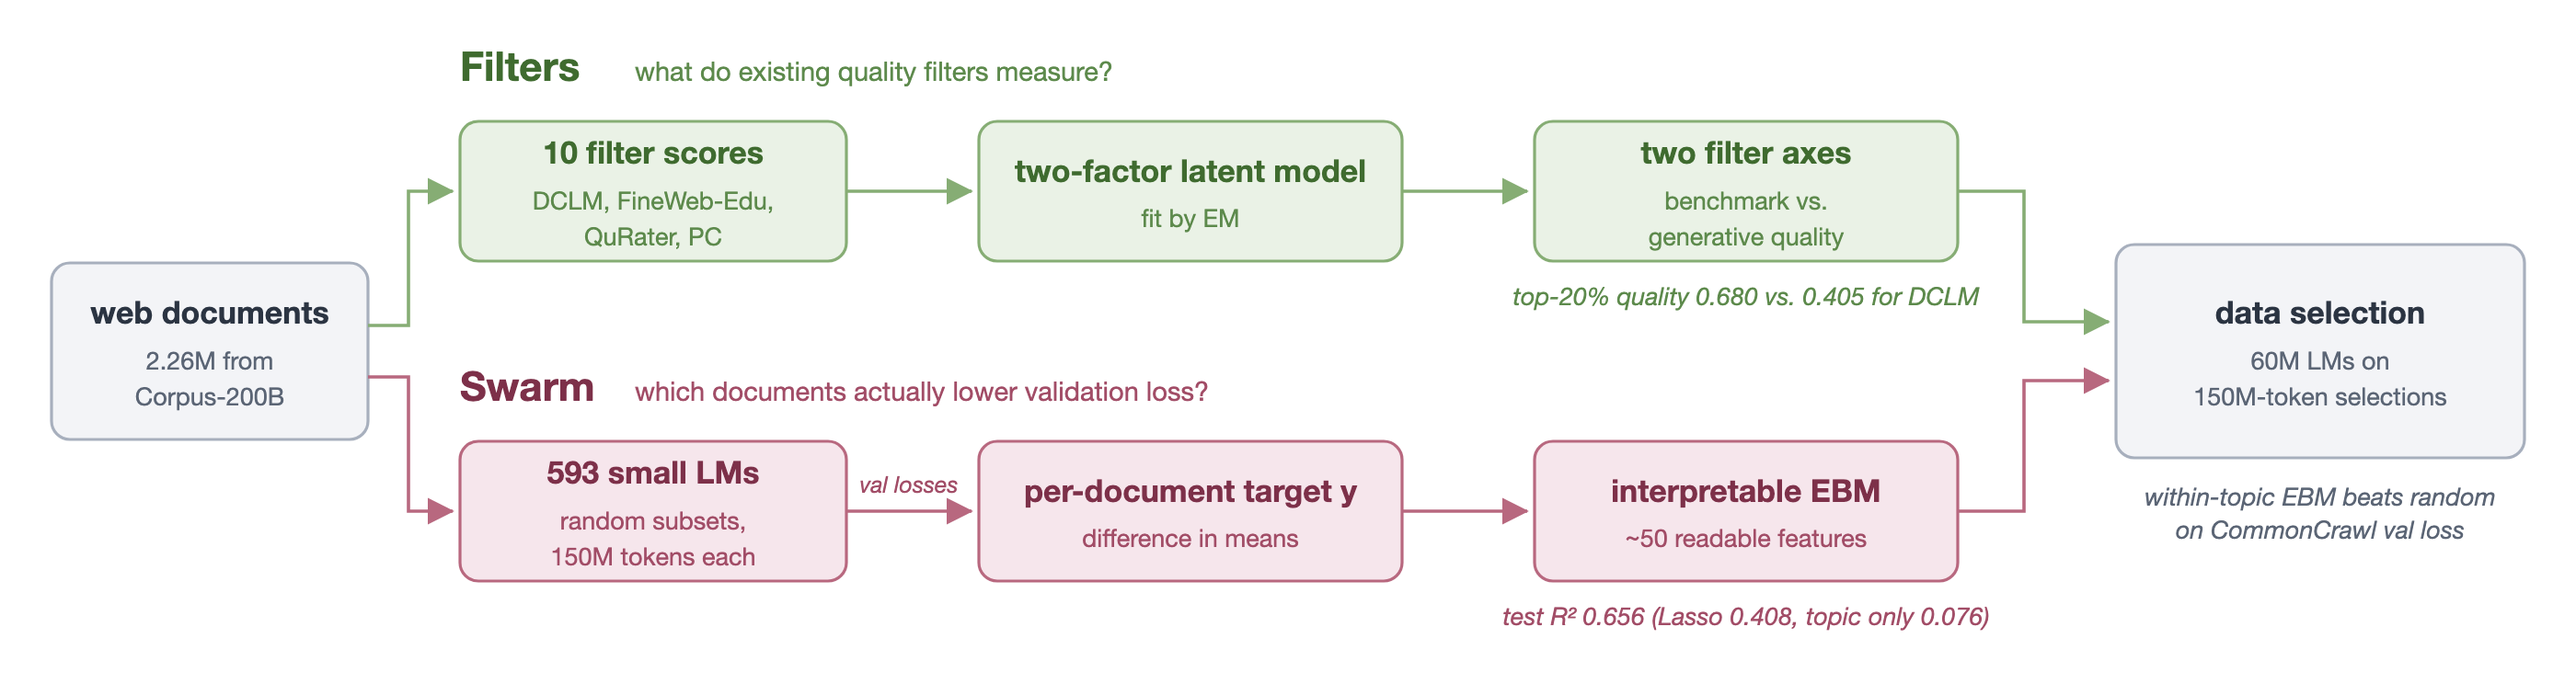
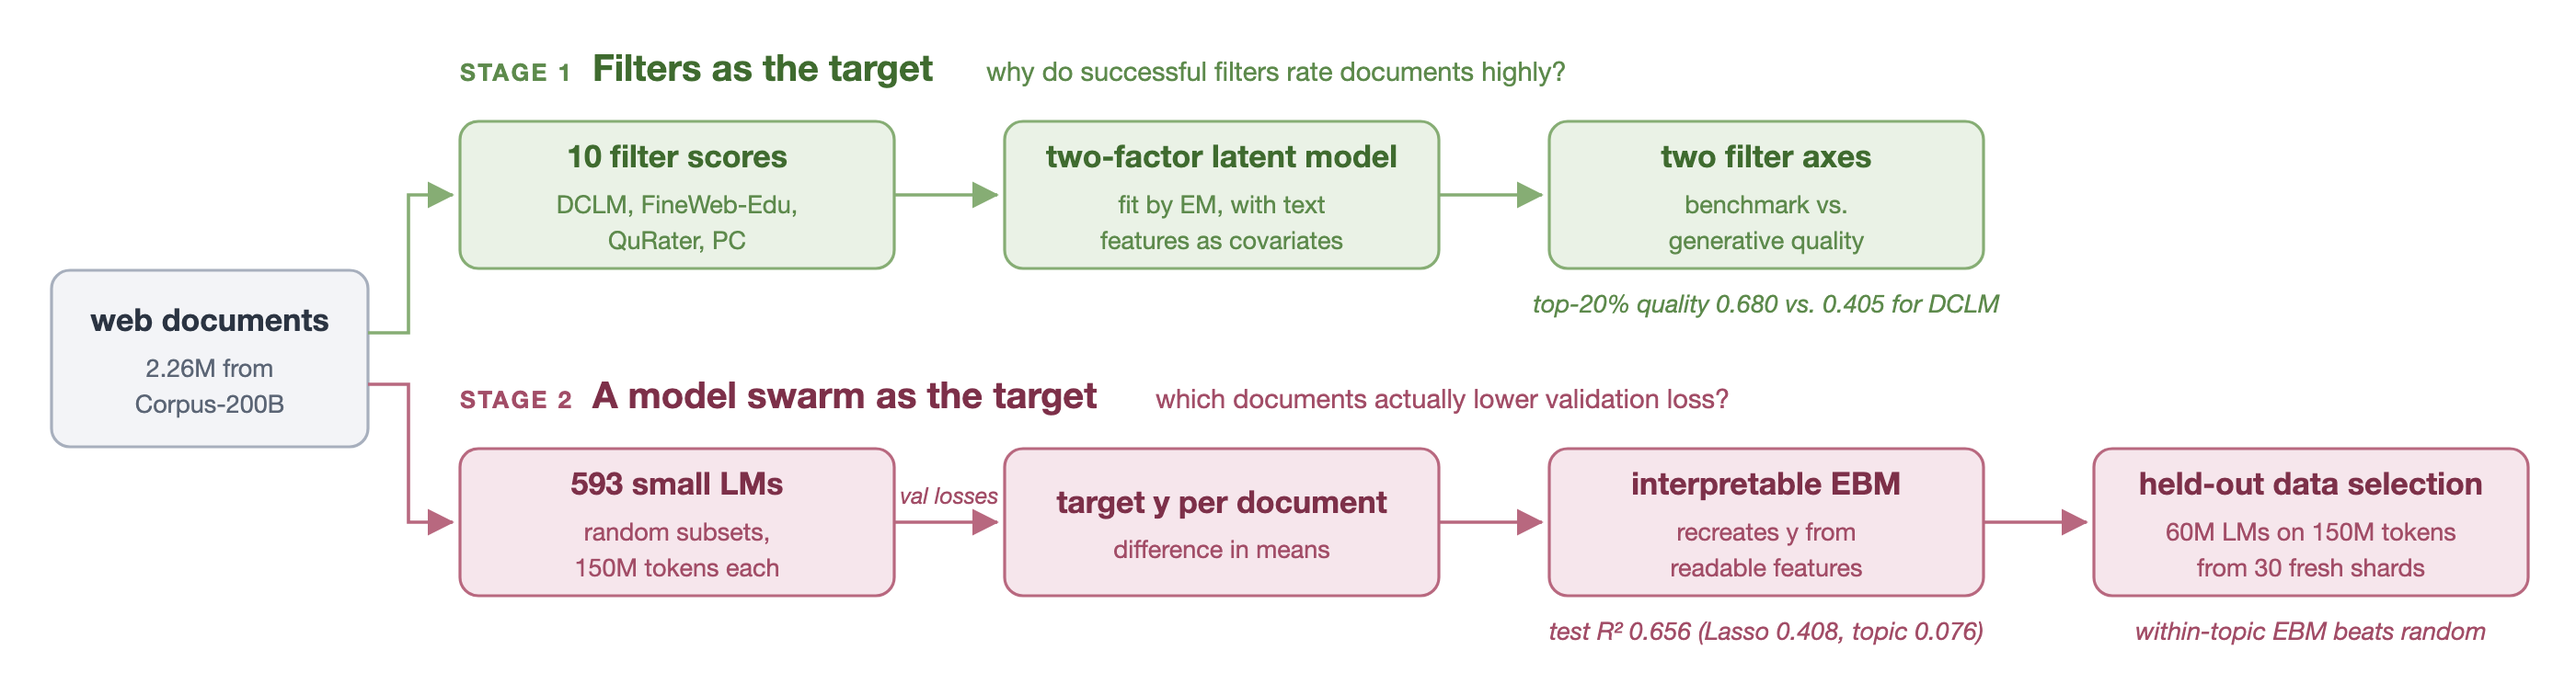
update overview figure

diff --git a/scripts/overview_figure.py b/scripts/overview_figure.py
@@ -30,41 +30,37 @@ def arrow(pts,k,dash=False):
 def note(x,y,t,st,anchor="middle",size=13.5):
     a(f'<text x="{x}" y="{y}" {F} font-size="{size}" font-style="italic" fill="{st["sub"]}" text-anchor="{anchor}">{t}</text>')
 
-yA,yB,bh=66,240,76          # lane box tops, box height
+yA,yB,bh=66,244,80          # lane box tops, box height
 cA,cB=yA+bh/2,yB+bh/2
-# lane labels
-a(f'<text x="250" y="{yA-22}" {F} font-size="22" font-weight="700" fill="{G["title"]}">Filters</text>')
-a(f'<text x="345" y="{yA-22}" {F} font-size="14.5" fill="{G["sub"]}">what do existing quality filters measure?</text>')
-a(f'<text x="250" y="{yB-22}" {F} font-size="22" font-weight="700" fill="{M["title"]}">Swarm</text>')
-a(f'<text x="345" y="{yB-22}" {F} font-size="14.5" fill="{M["sub"]}">which documents actually lower validation loss?</text>')
-# source
+X=[250,546,842,1138]; BW=236
+def lane_label(y,num,title,sub,st,sub_x):
+    a(f'<text x="250" y="{y-22}" {F} font-size="13" font-weight="700" letter-spacing="1.2" fill="{st["sub"]}">STAGE {num}</text>')
+    a(f'<text x="322" y="{y-22}" {F} font-size="20" font-weight="700" fill="{st["title"]}">{title}</text>')
+    a(f'<text x="{sub_x}" y="{y-22}" {F} font-size="14.5" fill="{st["sub"]}">{sub}</text>')
+lane_label(yA,1,"Filters as the target","why do successful filters rate documents highly?",G,536)
+lane_label(yB,2,"A model swarm as the target","which documents actually lower validation loss?",M,628)
 box(28,(cA+cB)/2-48,172,96,N,"web documents","2.26M from","Corpus-200B")
 sx=200; sy=(cA+cB)/2
 arrow([(sx,sy-14),(222,sy-14),(222,cA),(246,cA)],"g")
 arrow([(sx,sy+14),(222,sy+14),(222,cB),(246,cB)],"m")
-# lane A
-box(250,yA,210,bh,G,"10 filter scores","DCLM, FineWeb-Edu,","QuRater, PC")
-arrow([(460,cA),(528,cA)],"g")
-box(532,yA,230,bh,G,"two-factor latent model","fit by EM")
-arrow([(762,cA),(830,cA)],"g")
-box(834,yA,230,bh,G,"two filter axes","benchmark vs.","generative quality")
-note(949,yA+bh+24,"top-20% quality 0.680 vs. 0.405 for DCLM",G)
-
-# lane B
-box(250,yB,210,bh,M,"593 small LMs","random subsets,","150M tokens each")
-arrow([(460,cB),(528,cB)],"m")
-note(494,cB-10,"val losses",M,size=12.5)
-box(532,yB,230,bh,M,"per-document target y","difference in means")
-arrow([(762,cB),(830,cB)],"m")
-box(834,yB,230,bh,M,"interpretable EBM","~50 readable features")
-note(949,yB+bh+24,"test R² 0.656 (Lasso 0.408, topic only 0.076)",M)
-# sink
-box(1150,(cA+cB)/2-58,222,116,N,"data selection","60M LMs on","150M-token selections")
-tx=1150; ty=(cA+cB)/2
-arrow([(1064,cA),(1100,cA),(1100,ty-16),(1146,ty-16)],"g")
-arrow([(1064,cB),(1100,cB),(1100,ty+16),(1146,ty+16)],"m")
-note(1261,ty+84,"within-topic EBM beats random",N)
-note(1261,ty+102,"on CommonCrawl val loss",N)
+# stage 1
+box(X[0],yA,BW,bh,G,"10 filter scores","DCLM, FineWeb-Edu,","QuRater, PC")
+arrow([(X[0]+BW,cA),(X[1]-4,cA)],"g")
+box(X[1],yA,BW,bh,G,"two-factor latent model","fit by EM, with text","features as covariates")
+arrow([(X[1]+BW,cA),(X[2]-4,cA)],"g")
+box(X[2],yA,BW,bh,G,"two filter axes","benchmark vs.","generative quality")
+note(X[2]+BW/2,yA+bh+24,"top-20% quality 0.680 vs. 0.405 for DCLM",G)
+# stage 2
+box(X[0],yB,BW,bh,M,"593 small LMs","random subsets,","150M tokens each")
+arrow([(X[0]+BW,cB),(X[1]-4,cB)],"m")
+note((X[0]+BW+X[1])/2,cB-10,"val losses",M,size=12.5)
+box(X[1],yB,BW,bh,M,"target y per document","difference in means")
+arrow([(X[1]+BW,cB),(X[2]-4,cB)],"m")
+box(X[2],yB,BW,bh,M,"interpretable EBM","recreates y from","readable features")
+note(X[2]+BW/2,yB+bh+24,"test R\u00b2 0.656 (Lasso 0.408, topic 0.076)",M)
+arrow([(X[2]+BW,cB),(X[3]-4,cB)],"m")
+box(X[3],yB,BW,bh,M,"held-out data selection","60M LMs on 150M tokens","from 30 fresh shards")
+note(X[3]+BW/2,yB+bh+24,"within-topic EBM beats random",M)
 a('</svg>')
 s="\n".join(o)
 open(OUT / "overview.svg","w").write(s)
